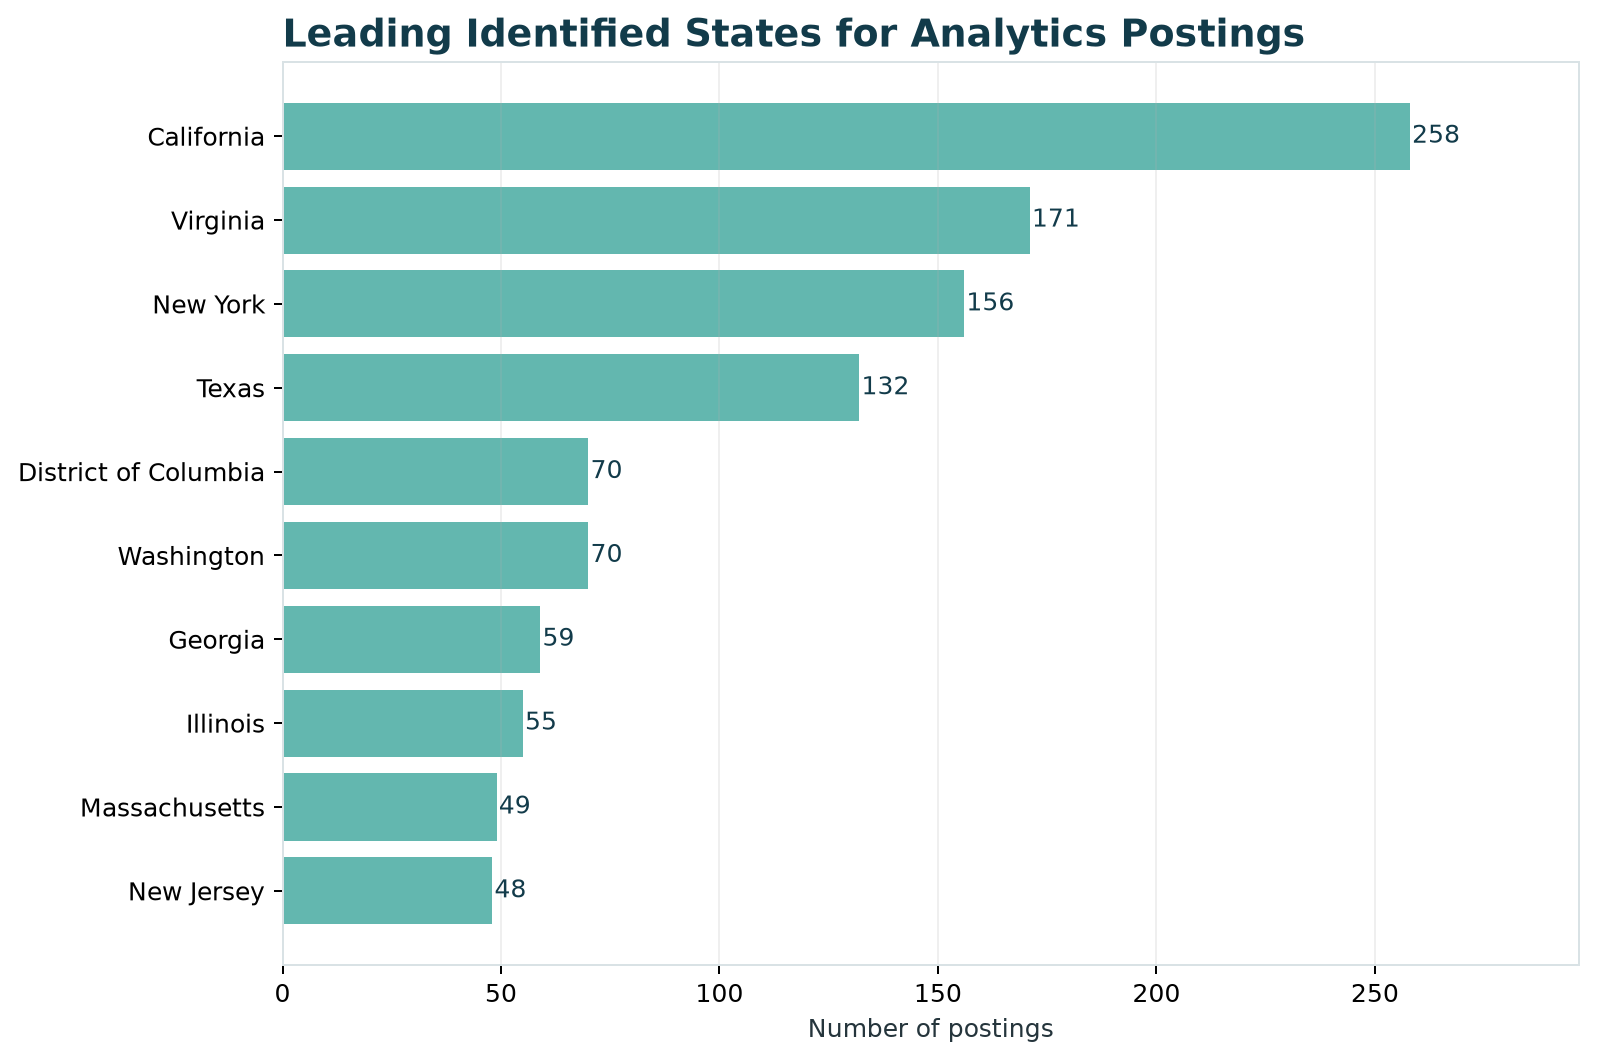
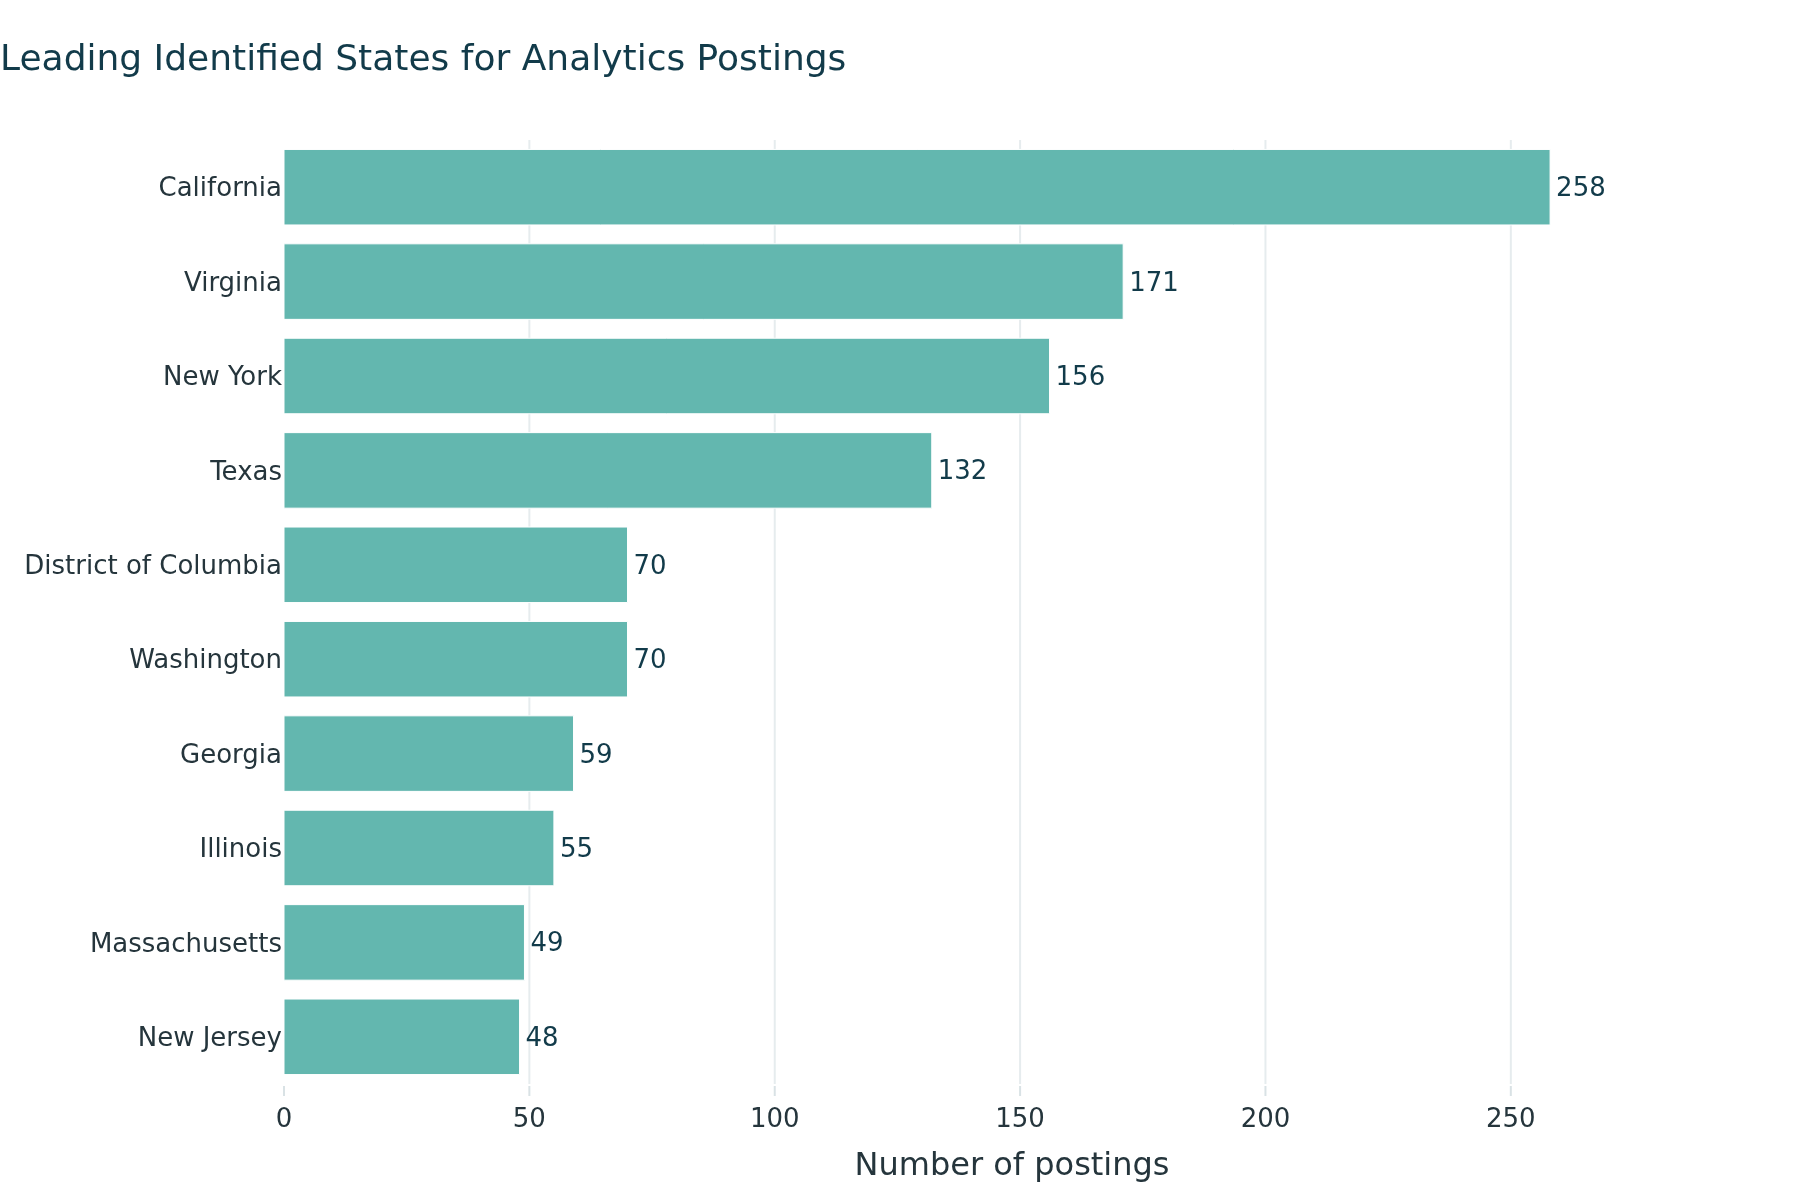
Applied consistent Plotly theme to EDA charts

diff --git a/scripts/build_market_baseline.py b/scripts/build_market_baseline.py
@@ -1,9 +1,19 @@
-"""Generate Module 2 market-baseline figures and data dictionary."""
+"""Generate the EDA figures and the data dictionary.
 
+Charts are built with Plotly and the shared "group2" theme in
+scripts/plot_theme.py, then saved as static PNGs in figures/ so the
+site renders reliably on GitHub Pages.
+"""
+
+import sys
 from pathlib import Path
 
-import matplotlib.pyplot as plt
 import pandas as pd
+import plotly.graph_objects as go
+
+sys.path.insert(0, str(Path(__file__).resolve().parent))
+import plot_theme  # noqa: E402  registers and activates the group2 template
+from plot_theme import NAVY, TEAL, AQUA, LIGHT_BLUE, GOLD, GRAY  # noqa: E402
 
 
 ROOT = Path(__file__).resolve().parents[1]
@@ -15,37 +25,26 @@ DICTIONARY_PATH = (
 
 FIGURE_DIR.mkdir(parents=True, exist_ok=True)
 
-NAVY = "#123B4A"
-TEAL = "#2A7F83"
-AQUA = "#63B7AF"
-LIGHT_BLUE = "#9CCFD0"
-GOLD = "#D7A84B"
-GRAY = "#65757D"
 
-plt.rcParams.update(
-    {
-        "figure.facecolor": "white",
-        "axes.facecolor": "white",
-        "axes.edgecolor": "#D9E2E5",
-        "axes.titlecolor": NAVY,
-        "axes.labelcolor": "#25353C",
-        "font.size": 10,
-        "axes.titlesize": 15,
-        "axes.titleweight": "bold",
-    }
-)
-
-
-def save_figure(filename):
-    """Apply consistent formatting and save the active figure."""
-    plt.tight_layout()
-    plt.savefig(
-        FIGURE_DIR / filename,
-        dpi=180,
-        bbox_inches="tight",
-        facecolor="white",
+def hbar(labels, values, text, color, title, x_title, x_max, height=540):
+    """Horizontal bar chart in the group2 theme."""
+    fig = go.Figure(
+        go.Bar(
+            x=values,
+            y=labels,
+            orientation="h",
+            marker_color=color,
+            text=text,
+            textposition="outside",
+            textfont=dict(color=NAVY),
+            cliponaxis=False,
+            hovertemplate="%{y}: %{x:,}<extra></extra>",
+        )
     )
-    plt.close()
+    fig.update_layout(title=title, height=height, showlegend=False)
+    fig.update_xaxes(title=x_title, range=[0, x_max])
+    fig.update_yaxes(showgrid=False, ticks="")
+    return fig
 
 
 panel = pd.read_csv(DATA_PATH)
@@ -71,24 +70,16 @@ role_labels = {
 }
 role_counts.index = [role_labels.get(value, value) for value in role_counts.index]
 
-plt.figure(figsize=(9, 5.5))
-bars = plt.barh(role_counts.index, role_counts.values, color=TEAL)
-
-for bar, value in zip(bars, role_counts.values):
-    plt.text(
-        value + 2,
-        bar.get_y() + bar.get_height() / 2,
-        f"{value} ({value / total_postings:.1%})",
-        va="center",
-        color=NAVY,
-    )
-
-plt.title("Analytics Postings by Occupation Segment", loc="left")
-plt.xlabel("Number of postings")
-plt.ylabel("")
-plt.xlim(0, role_counts.max() * 1.22)
-plt.grid(axis="x", alpha=0.2)
-save_figure("job_volume_by_segment.png")
+fig = hbar(
+    role_counts.index,
+    role_counts.values,
+    [f"{v} ({v / total_postings:.1%})" for v in role_counts.values],
+    TEAL,
+    "Analytics Postings by Occupation Segment",
+    "Number of postings",
+    role_counts.max() * 1.25,
+)
+plot_theme.save(fig, "job_volume_by_segment")
 
 # ------------------------------------------------------------
 # 2. Salary distribution
@@ -97,30 +88,29 @@ save_figure("job_volume_by_segment.png")
 salary = panel["salary_midpoint"].dropna()
 salary_median = salary.median()
 
-plt.figure(figsize=(9, 5.5))
-plt.hist(
-    salary,
-    bins=14,
-    color=TEAL,
-    edgecolor="white",
+fig = go.Figure(
+    go.Histogram(
+        x=salary,
+        nbinsx=14,
+        marker=dict(color=TEAL, line=dict(color="white", width=1)),
+        hovertemplate="%{x}<br>%{y} postings<extra></extra>",
+        showlegend=False,
+    )
 )
-plt.axvline(
-    salary_median,
-    color=GOLD,
-    linewidth=2.5,
-    linestyle="--",
-    label=f"Median: ${salary_median:,.0f}",
+fig.add_vline(
+    x=salary_median,
+    line=dict(color=GOLD, width=3, dash="dash"),
+    annotation_text=f"Median: ${salary_median:,.0f}",
+    annotation_position="top right",
+    annotation_font=dict(color=NAVY),
 )
-
-plt.title("Distribution of Advertised Annual Salary Midpoints", loc="left")
-plt.xlabel("Annual salary midpoint (USD)")
-plt.ylabel("Number of postings")
-plt.gca().xaxis.set_major_formatter(
-    plt.FuncFormatter(lambda value, _: f"${value / 1000:.0f}K")
+fig.update_layout(
+    title="Distribution of Advertised Annual Salary Midpoints",
+    bargap=0.03,
 )
-plt.grid(axis="y", alpha=0.2)
-plt.legend(frameon=False)
-save_figure("salary_distribution.png")
+fig.update_xaxes(title="Annual salary midpoint (USD)", tickprefix="$", tickformat="~s")
+fig.update_yaxes(title="Number of postings")
+plot_theme.save(fig, "salary_distribution")
 
 # ------------------------------------------------------------
 # 3. Leading states
@@ -133,24 +123,17 @@ state_counts = (
     .sort_values()
 )
 
-plt.figure(figsize=(9, 6))
-bars = plt.barh(state_counts.index, state_counts.values, color=AQUA)
-
-for bar, value in zip(bars, state_counts.values):
-    plt.text(
-        value + 0.5,
-        bar.get_y() + bar.get_height() / 2,
-        str(value),
-        va="center",
-        color=NAVY,
-    )
-
-plt.title("Leading Identified States for Analytics Postings", loc="left")
-plt.xlabel("Number of postings")
-plt.ylabel("")
-plt.xlim(0, state_counts.max() * 1.15)
-plt.grid(axis="x", alpha=0.2)
-save_figure("leading_states.png")
+fig = hbar(
+    state_counts.index,
+    state_counts.values,
+    [str(v) for v in state_counts.values],
+    AQUA,
+    "Leading Identified States for Analytics Postings",
+    "Number of postings",
+    state_counts.max() * 1.15,
+    height=600,
+)
+plot_theme.save(fig, "leading_states", height=600)
 
 # ------------------------------------------------------------
 # 4. Work arrangement
@@ -164,28 +147,22 @@ work_counts = (
     .reindex(work_order, fill_value=0)
 )
 
-plt.figure(figsize=(8.5, 5.5))
-bars = plt.bar(
-    work_counts.index,
-    work_counts.values,
-    color=[TEAL, AQUA, LIGHT_BLUE, GRAY],
-)
-
-for bar, value in zip(bars, work_counts.values):
-    plt.text(
-        bar.get_x() + bar.get_width() / 2,
-        value + 3,
-        f"{value}\n({value / total_postings:.1%})",
-        ha="center",
-        color=NAVY,
+fig = go.Figure(
+    go.Bar(
+        x=work_counts.index,
+        y=work_counts.values,
+        marker_color=[TEAL, AQUA, LIGHT_BLUE, GRAY],
+        text=[f"{v}<br>({v / total_postings:.1%})" for v in work_counts.values],
+        textposition="outside",
+        textfont=dict(color=NAVY),
+        cliponaxis=False,
+        hovertemplate="%{x}: %{y:,}<extra></extra>",
     )
-
-plt.title("Remote, Hybrid, and On-site Classification", loc="left")
-plt.xlabel("")
-plt.ylabel("Number of postings")
-plt.ylim(0, work_counts.max() * 1.18)
-plt.grid(axis="y", alpha=0.2)
-save_figure("work_arrangement.png")
+)
+fig.update_layout(title="Remote, Hybrid, and On-site Classification", showlegend=False)
+fig.update_xaxes(showgrid=False)
+fig.update_yaxes(title="Number of postings", range=[0, work_counts.max() * 1.2])
+plot_theme.save(fig, "work_arrangement")
 
 # ------------------------------------------------------------
 # 5. Top employers
@@ -199,24 +176,17 @@ employer_counts = (
     .sort_values()
 )
 
-plt.figure(figsize=(9, 6))
-bars = plt.barh(employer_counts.index, employer_counts.values, color=TEAL)
-
-for bar, value in zip(bars, employer_counts.values):
-    plt.text(
-        value + 0.2,
-        bar.get_y() + bar.get_height() / 2,
-        str(value),
-        va="center",
-        color=NAVY,
-    )
-
-plt.title("Employers with the Most Postings in the Panel", loc="left")
-plt.xlabel("Number of postings")
-plt.ylabel("")
-plt.xlim(0, employer_counts.max() * 1.15)
-plt.grid(axis="x", alpha=0.2)
-save_figure("top_employers.png")
+fig = hbar(
+    employer_counts.index,
+    employer_counts.values,
+    [str(v) for v in employer_counts.values],
+    TEAL,
+    "Employers with the Most Postings in the Panel",
+    "Number of postings",
+    employer_counts.max() * 1.15,
+    height=600,
+)
+plot_theme.save(fig, "top_employers", height=600)
 
 # ------------------------------------------------------------
 # 6. Median salary by occupation segment
@@ -229,45 +199,22 @@ salary_by_role = (
     .sort_values("median")
 )
 
-salary_role_labels = {
-    "Management Analysts": "Management analysts",
-    "Database Architects": "Database architects / data engineers",
-    "Data Scientists": "Data scientists / data analysts",
-}
 salary_by_role.index = [
-    salary_role_labels.get(value, value)
-    for value in salary_by_role.index
+    role_labels.get(value, value) for value in salary_by_role.index
 ]
 
-plt.figure(figsize=(9, 5.5))
-bars = plt.barh(
+fig = hbar(
     salary_by_role.index,
     salary_by_role["median"],
-    color=TEAL,
+    [f"${m:,.0f} (n={int(c)})" for m, c in zip(salary_by_role["median"], salary_by_role["count"])],
+    TEAL,
+    "Median Advertised Salary by Occupation Segment",
+    "Median annual salary midpoint (USD)",
+    salary_by_role["median"].max() * 1.35,
 )
-
-for bar, value, count in zip(
-    bars,
-    salary_by_role["median"],
-    salary_by_role["count"],
-):
-    plt.text(
-        value + 2500,
-        bar.get_y() + bar.get_height() / 2,
-        f"${value:,.0f} (n={int(count)})",
-        va="center",
-        color=NAVY,
-    )
-
-plt.title("Median Advertised Salary by Occupation Segment", loc="left")
-plt.xlabel("Median annual salary midpoint (USD)")
-plt.ylabel("")
-plt.xlim(0, salary_by_role["median"].max() * 1.30)
-plt.gca().xaxis.set_major_formatter(
-    plt.FuncFormatter(lambda value, _: f"${value / 1000:.0f}K")
-)
-plt.grid(axis="x", alpha=0.2)
-save_figure("median_salary_by_occupation.png")
+fig.update_xaxes(tickprefix="$", tickformat="~s")
+fig.update_traces(hovertemplate="%{y}: $%{x:,.0f}<extra></extra>")
+plot_theme.save(fig, "median_salary_by_occupation")
 
 # ------------------------------------------------------------
 # Data dictionary
